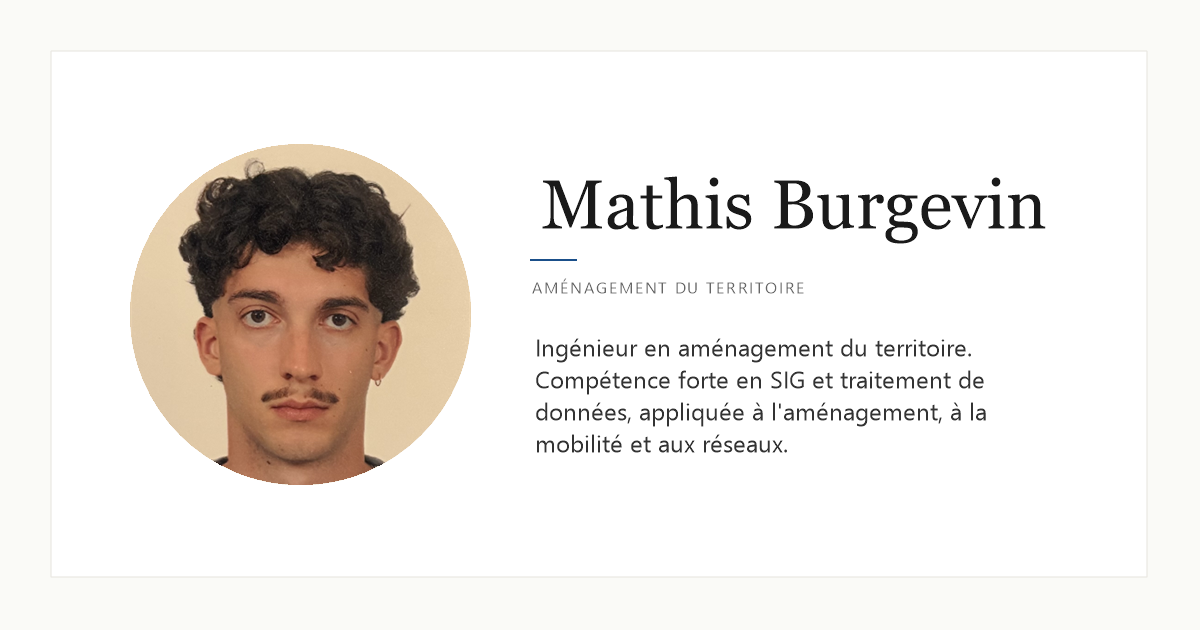
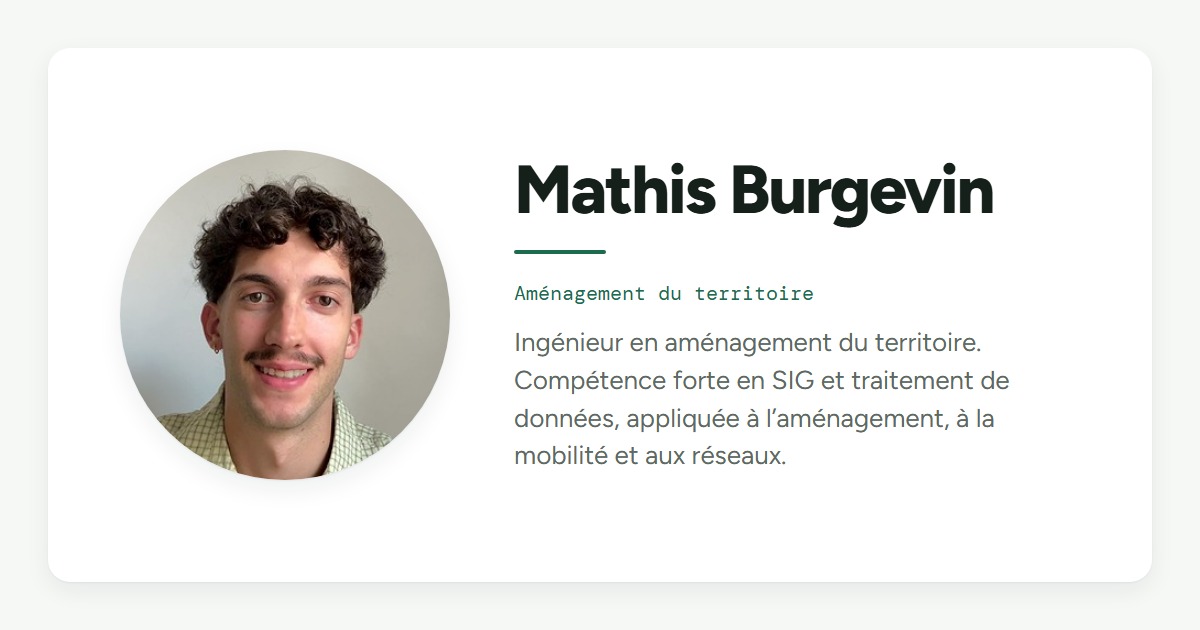
Revue du 08/10 : sigles expliqués, outil de visite de site, cartes par pays, bannière refaite
- Sigles développés à leur première apparition (SIG, APUR, SDIE, OPC, BDTOPO, algorithmes)
- « Outil de visite de site » partout, consignes rédigées pour une IA (pas des scripts)
- OPAH-RU retiré de l'accueil
- L'Ornithèque : cartes par pays expliquées, légende de la vidéo raccourcie, crédit des photos
- Recherche : 44 % en tête de page
- og-cover.png refaite aux polices et couleurs du site

diff --git a/experiences.html b/experiences.html
@@ -58,7 +58,7 @@
         <ol class="sommaire__l">
           <li><a class="tuile" href="#coordination"><span class="tuile__img tuile__img--dessin" aria-hidden="true"><svg viewBox="0 0 120 90"><path d="M60 44L22 20" fill="none" stroke="currentColor" stroke-width="2.5" opacity=".45"/><path d="M60 44L98 20" fill="none" stroke="currentColor" stroke-width="2.5" opacity=".45"/><path d="M60 44L16 60" fill="none" stroke="currentColor" stroke-width="2.5" opacity=".45"/><path d="M60 44L104 60" fill="none" stroke="currentColor" stroke-width="2.5" opacity=".45"/><path d="M60 44L60 80" fill="none" stroke="currentColor" stroke-width="2.5" opacity=".45"/><circle cx="22" cy="20" r="7" fill="currentColor" opacity="0.5"/><circle cx="98" cy="20" r="7" fill="currentColor" opacity="0.7"/><circle cx="16" cy="60" r="7" fill="currentColor" opacity="0.7"/><circle cx="104" cy="60" r="7" fill="currentColor" opacity="0.5"/><circle cx="60" cy="80" r="7" fill="currentColor" opacity="0.6"/><circle cx="60" cy="44" r="12" fill="currentColor"/></svg></span><span class="tuile__t"><span class="tuile__n">1</span>Coordination</span></a></li>
           <li><a class="tuile" href="#phasage"><span class="tuile__img tuile__img--dessin" aria-hidden="true"><svg viewBox="0 0 120 90"><rect x="8" y="14" width="32" height="44" rx="3" fill="none" stroke="currentColor" stroke-width="2" opacity=".45"/><rect x="13" y="19" width="14" height="16" rx="1.5" fill="currentColor"/><circle cx="24" cy="74" r="4" fill="currentColor" opacity="1"/><rect x="44" y="14" width="32" height="44" rx="3" fill="none" stroke="currentColor" stroke-width="2" opacity=".45"/><rect x="49" y="19" width="14" height="16" rx="1.5" fill="currentColor" opacity=".35"/><rect x="57" y="32" width="14" height="20" rx="1.5" fill="currentColor"/><circle cx="60" cy="74" r="4" fill="currentColor" opacity="0.7"/><rect x="80" y="14" width="32" height="44" rx="3" fill="none" stroke="currentColor" stroke-width="2" opacity=".45"/><rect x="93" y="32" width="14" height="20" rx="1.5" fill="currentColor" opacity=".35"/><rect x="85" y="38" width="10" height="14" rx="1.5" fill="currentColor"/><rect x="98" y="19" width="9" height="9" rx="1.5" fill="currentColor"/><circle cx="96" cy="74" r="4" fill="currentColor" opacity="0.45"/><path d="M24 74H96" fill="none" stroke="currentColor" stroke-width="2" opacity=".35"/></svg></span><span class="tuile__t"><span class="tuile__n">2</span>Phasage de chantiers</span></a></li>
-          <li><a class="tuile" href="#visites"><span class="tuile__img tuile__img--dessin" aria-hidden="true"><svg viewBox="0 0 120 90"><rect x="12" y="12" width="32" height="66" rx="6" fill="none" stroke="currentColor" stroke-width="3"/><rect x="18" y="20" width="20" height="14" rx="2" fill="currentColor" opacity=".5"/><rect x="18" y="40" width="20" height="4" rx="1" fill="currentColor"/><rect x="18" y="49" width="14" height="4" rx="1" fill="currentColor" opacity=".6"/><rect x="18" y="58" width="17" height="4" rx="1" fill="currentColor" opacity=".6"/><path d="M52 45H70M64 40L70 45L64 50" fill="none" stroke="currentColor" stroke-width="3" stroke-linecap="round" stroke-linejoin="round"/><rect x="78" y="14" width="30" height="62" rx="3" fill="none" stroke="currentColor" stroke-width="3"/><rect x="84" y="21" width="18" height="12" rx="1.5" fill="currentColor" opacity=".5"/><rect x="84" y="39" width="18" height="3.5" rx="1" fill="currentColor"/><rect x="84" y="47" width="14" height="3.5" rx="1" fill="currentColor" opacity=".6"/><rect x="84" y="55" width="18" height="3.5" rx="1" fill="currentColor" opacity=".6"/><rect x="84" y="63" width="11" height="3.5" rx="1" fill="currentColor" opacity=".6"/></svg></span><span class="tuile__t"><span class="tuile__n">3</span>Outils de suivi de chantier</span></a></li>
+          <li><a class="tuile" href="#visites"><span class="tuile__img tuile__img--dessin" aria-hidden="true"><svg viewBox="0 0 120 90"><rect x="12" y="12" width="32" height="66" rx="6" fill="none" stroke="currentColor" stroke-width="3"/><rect x="18" y="20" width="20" height="14" rx="2" fill="currentColor" opacity=".5"/><rect x="18" y="40" width="20" height="4" rx="1" fill="currentColor"/><rect x="18" y="49" width="14" height="4" rx="1" fill="currentColor" opacity=".6"/><rect x="18" y="58" width="17" height="4" rx="1" fill="currentColor" opacity=".6"/><path d="M52 45H70M64 40L70 45L64 50" fill="none" stroke="currentColor" stroke-width="3" stroke-linecap="round" stroke-linejoin="round"/><rect x="78" y="14" width="30" height="62" rx="3" fill="none" stroke="currentColor" stroke-width="3"/><rect x="84" y="21" width="18" height="12" rx="1.5" fill="currentColor" opacity=".5"/><rect x="84" y="39" width="18" height="3.5" rx="1" fill="currentColor"/><rect x="84" y="47" width="14" height="3.5" rx="1" fill="currentColor" opacity=".6"/><rect x="84" y="55" width="18" height="3.5" rx="1" fill="currentColor" opacity=".6"/><rect x="84" y="63" width="11" height="3.5" rx="1" fill="currentColor" opacity=".6"/></svg></span><span class="tuile__t"><span class="tuile__n">3</span>Outil de visite de site</span></a></li>
           <li><a class="tuile" href="#reperage"><span class="tuile__img tuile__img--dessin" aria-hidden="true"><svg viewBox="0 0 120 90"><rect x="18" y="40" width="20" height="16" rx="2" fill="currentColor" opacity=".3"/><rect x="62" y="14" width="18" height="14" rx="2" fill="currentColor" opacity=".3"/><rect x="84" y="36" width="22" height="18" rx="2" fill="currentColor" opacity=".3"/><path d="M8 74C34 66 42 36 66 36S96 22 112 12" fill="none" stroke="currentColor" stroke-width="4" stroke-linecap="round"/><circle cx="30" cy="64" r="5" fill="#fff" stroke="currentColor" stroke-width="3"/><circle cx="66" cy="36" r="5" fill="#fff" stroke="currentColor" stroke-width="3"/><circle cx="100" cy="18" r="5" fill="#fff" stroke="currentColor" stroke-width="3"/></svg></span><span class="tuile__t"><span class="tuile__n">4</span>Carte d’un tracé de transport</span></a></li>
           <li><a class="tuile" href="#pru"><span class="tuile__img tuile__img--dessin" aria-hidden="true"><svg viewBox="0 0 120 90"><rect x="10" y="10" width="42" height="30" rx="2" fill="currentColor" opacity=".5"/><rect x="64" y="10" width="46" height="30" rx="2" fill="currentColor" opacity=".3"/><rect x="10" y="52" width="42" height="28" rx="2" fill="currentColor" opacity=".3"/><rect x="64" y="52" width="46" height="28" rx="2" fill="currentColor" opacity=".5"/><path d="M6 46H114" fill="none" stroke="currentColor" stroke-width="3" stroke-dasharray="7 5"/><circle cx="31" cy="25" r="6" fill="#fff" stroke="currentColor" stroke-width="3"/><circle cx="87" cy="66" r="6" fill="#fff" stroke="currentColor" stroke-width="3"/><rect x="80" y="18" width="14" height="14" rx="2" fill="currentColor"/></svg></span><span class="tuile__t"><span class="tuile__n">5</span>Carte de renouvellement urbain</span></a></li>
         </ol>
@@ -78,7 +78,7 @@
       <p class="stage__n">Stage de fin d’études · mars à août 2026</p>
       <h2 class="stage__t">Egis, Montreuil</h2>
     </div>
-    <p class="stage__sub">Stage en assistance à maîtrise d’ouvrage (OPCU, OPCIC, ICIC)&nbsp;: suivre et coordonner les chantiers de deux quartiers en renouvellement urbain.</p>
+    <p class="stage__sub">Stage en assistance à maîtrise d’ouvrage, en ordonnancement, pilotage et coordination (OPCU, OPCIC, ICIC)&nbsp;: suivre et coordonner les chantiers de deux quartiers en renouvellement urbain.</p>
   </section>
 
   <section class="item reveal" id="coordination">
@@ -137,7 +137,7 @@
       </div>
       <div>
         <p class="releve__k">Mon rôle</p>
-        <p class="releve__v">Production des plans de phasage sur mes deux secteurs, et pour des collègues sur les leurs. Appui SIG sur cette chaîne, que je n’ai pas construite&nbsp;: j’ai aidé des collègues moins à l’aise avec le SIG à régler leurs problèmes d’affichage, de liens et de mise en page, et les écarts entre le planning et la carte.</p>
+        <p class="releve__v">Production des plans de phasage sur mes deux secteurs, et pour des collègues sur les leurs. Appui SIG (systèmes d’information géographique) sur cette chaîne, que je n’ai pas construite&nbsp;: j’ai aidé des collègues moins à l’aise avec le SIG à régler leurs problèmes d’affichage, de liens et de mise en page, et les écarts entre le planning et la carte.</p>
       </div>
       <div>
         <p class="releve__k">Outils</p>
@@ -171,7 +171,7 @@
         </div>
         <div>
           <p class="releve__k">L’analyse automatique</p>
-          <p class="releve__v">Trois scripts que j’ai écrits analysent les photos et le commentaire audio, rédigent l’observation, proposent une action et tentent d’identifier le maître d’ouvrage. C’est une première rédaction, à reprendre à la main sur les cas particuliers.</p>
+          <p class="releve__v">Trois consignes que j’ai rédigées pour une IA lui font analyser les photos et le commentaire audio, rédiger l’observation, proposer une action et tenter d’identifier le maître d’ouvrage. C’est une première rédaction, à reprendre à la main sur les cas particuliers.</p>
         </div>
       </div>
     </div>
@@ -278,7 +278,7 @@
       <p class="stage__n">Stage de 4e année · avril à août 2025</p>
       <h2 class="stage__t">Egis, Nantes</h2>
     </div>
-    <p class="stage__sub">Stage SIG en conseil immobilier et énergétique (SDIE)&nbsp;: concevoir l’outil qui met en cartes le diagnostic des bâtiments publics d’une collectivité.</p>
+    <p class="stage__sub">Stage SIG en conseil immobilier et énergétique, sur les schémas directeurs immobiliers et énergétiques (SDIE)&nbsp;: concevoir l’outil qui met en cartes le diagnostic des bâtiments publics d’une collectivité.</p>
   </section>
 
   <section class="item reveal" id="outil">

diff --git a/dater-le-bati.html b/dater-le-bati.html
@@ -46,9 +46,10 @@
   <header class="hero reveal">
     <h1 class="title">Compléter une base de données du bâti par apprentissage automatique</h1>
     <p class="page-sub">Projet de recherche et innovation · Polytech Tours · 2025</p>
-    <p class="lead">Dans la base des bâtiments de Paris publiée par l’APUR, un bâtiment sur trois n’a pas de date de construction. D’où la question de ce projet de recherche&nbsp;: les bâtiments bien renseignés peuvent-ils servir à deviner ce qui manque aux autres&nbsp;? La date n’était qu’un cas d’essai, le vrai sujet était la méthode.</p>
+    <p class="lead">Dans la base des bâtiments de Paris publiée par l’APUR (Atelier parisien d’urbanisme), un bâtiment sur trois n’a pas de date de construction. D’où la question de ce projet de recherche&nbsp;: les bâtiments bien renseignés peuvent-ils servir à deviner ce qui manque aux autres&nbsp;? La date n’était qu’un cas d’essai, le vrai sujet était la méthode.</p>
     <div class="facts">
       <span class="fact"><b>128 176</b><span>bâtiments dans la base</span></span>
+      <span class="fact"><b>44&nbsp;%</b><span>classés dans la bonne période</span></span>
     </div>
   </header>
 
@@ -62,7 +63,7 @@
       </div>
       <div>
         <p class="releve__k">Pourquoi la date de construction</p>
-        <p class="releve__v">Parce qu’elle ne se calcule pas. Une surface, une hauteur, une pente de toit se mesurent dans un SIG&nbsp;; une date, non&nbsp;: soit elle figure dans la base, soit elle manque. Et parce qu’elle est utile. L’époque de construction renseigne les matériaux, le vitrage et l’isolation, donc les consommations de chauffage, donc les bâtiments à rénover en premier.</p>
+        <p class="releve__v">Parce qu’elle ne se calcule pas. Une surface, une hauteur, une pente de toit se mesurent dans un SIG (système d’information géographique)&nbsp;; une date, non&nbsp;: soit elle figure dans la base, soit elle manque. Et parce qu’elle est utile. L’époque de construction renseigne les matériaux, le vitrage et l’isolation, donc les consommations de chauffage, donc les bâtiments à rénover en premier.</p>
       </div>
     </div>
 
@@ -99,7 +100,7 @@
       </div>
       <div>
         <p class="releve__k">L’apprentissage, puis la note</p>
-        <p class="releve__v">Les bâtiments sont séparés en deux groupes. Le modèle apprend sur le premier&nbsp;; sur le second, il ne voit que les formes et doit annoncer une date, qu’on compare ensuite à la vraie, qu’il n’a jamais eue sous les yeux. Trois algorithmes sont mis en concurrence de cette façon, l’arbre de décision, la forêt aléatoire et le gradient boosting, sur neuf découpages différents.</p>
+        <p class="releve__v">Les bâtiments sont séparés en deux groupes. Le modèle apprend sur le premier&nbsp;; sur le second, il ne voit que les formes et doit annoncer une date, qu’on compare ensuite à la vraie, qu’il n’a jamais eue sous les yeux. Trois algorithmes sont mis en concurrence de cette façon, l’arbre de décision, la forêt aléatoire et le gradient boosting (le premier pose une suite de questions sur la forme du bâtiment, les deux autres combinent des centaines d’arbres de ce type), sur neuf découpages différents.</p>
       </div>
     </div>
 
@@ -140,7 +141,7 @@
       </div>
       <div>
         <p class="releve__k">Ce qui ne se transpose pas</p>
-        <p class="releve__v">Le modèle a appris sur les variables de l’APUR. La BDTOPO, qui couvre le reste du territoire, ne décrit pas les bâtiments avec les mêmes&nbsp;: pour l’utiliser ailleurs, il faudrait se limiter aux variables communes aux deux bases, et vérifier que le résultat tient encore.</p>
+        <p class="releve__v">Le modèle a appris sur les variables de l’APUR. La BDTOPO (la base topographique nationale de l’IGN), qui couvre le reste du territoire, ne décrit pas les bâtiments avec les mêmes&nbsp;: pour l’utiliser ailleurs, il faudrait se limiter aux variables communes aux deux bases, et vérifier que le résultat tient encore.</p>
       </div>
       <div>
         <p class="releve__k">Ce que je ferais autrement</p>

diff --git a/index.html b/index.html
@@ -85,7 +85,7 @@
         <a class="carrousel__vue carrousel__vue--phone" href="experiences.html#visites">
           <figure>
             <img width="232" height="456" loading="lazy" src="projet-visite-formulaire.webp" alt="Formulaire de visite de site sur téléphone, avec ses champs photo, audio et l’analyse automatique">
-            <figcaption><span class="ligne"><span class="t">Outils de suivi de chantier</span><span class="m">Egis Montreuil, 2026</span><span class="v">Voir le détail <i>→</i></span></span><span class="d">Les observations lors des visites de site sont faites sur place en photos et en audio puis rédigées automatiquement. Avec un suivi d’une visite à l’autre, un planning de synthèse alimenté depuis la base du projet et des rapports générés en quelques clics.</span></figcaption>
+            <figcaption><span class="ligne"><span class="t">Outil de visite de site</span><span class="m">Egis Montreuil, 2026</span><span class="v">Voir le détail <i>→</i></span></span><span class="d">Les observations lors des visites de site sont faites sur place en photos et en audio puis rédigées automatiquement. Avec un suivi d’une visite à l’autre, un planning de synthèse alimenté depuis la base du projet et des rapports générés en quelques clics.</span></figcaption>
           </figure>
         </a>
         <a class="carrousel__vue" href="experiences.html#pru">
@@ -106,7 +106,7 @@
         <div class="carrousel__points">
           <button class="carrousel__point is-on" type="button" aria-label="Aller à la vue 1, Phasage de chantiers"></button>
           <button class="carrousel__point" type="button" aria-label="Aller à la vue 2, Outil cartographique automatisé"></button>
-          <button class="carrousel__point" type="button" aria-label="Aller à la vue 3, Outils de suivi de chantier"></button>
+          <button class="carrousel__point" type="button" aria-label="Aller à la vue 3, Outil de visite de site"></button>
           <button class="carrousel__point" type="button" aria-label="Aller à la vue 4, Carte de renouvellement urbain"></button>
           <button class="carrousel__point" type="button" aria-label="Aller à la vue 5, Carte d’un tracé de transport"></button>
         </div>
@@ -139,7 +139,7 @@
       <a href="dater-le-bati.html">
         <span class="index__body">
           <span class="index__t">Compléter une base de données du bâti par apprentissage automatique</span>
-          <span class="index__d">Projet de recherche&nbsp;: une base du bâti peut-elle remplir ses propres cases vides&nbsp;? Cas d’étude sur la date de construction des bâtiments parisiens, données ouvertes de l’APUR, marge d’erreur mesurée</span>
+          <span class="index__d">Projet de recherche&nbsp;: une base du bâti peut-elle remplir ses propres cases vides&nbsp;? Cas d’étude sur la date de construction des bâtiments parisiens, données ouvertes de l’APUR (Atelier parisien d’urbanisme), marge d’erreur mesurée</span>
         </span>
         <span class="index__go">Lire le projet <i>→</i></span>
       </a>
@@ -158,7 +158,7 @@
         <p>Plannings de synthèse, MS Project, Excel, Power Query, macros, phasage, comptes rendus, comités techniques, visites de site</p>
       </div>
       <div class="skill">
-        <p class="skill__k"><i></i>SIG et données</p>
+        <p class="skill__k"><i></i>SIG (systèmes d’information géographique) et données</p>
         <p>QGIS, PyQGIS, WebSIG, ArcGIS Online, Experience Builder, Survey123 (formulaires de terrain), SQL, PostgreSQL, PostGIS, production cartographique, analyses spatiales, structuration de données</p>
       </div>
       <div class="skill">
@@ -167,7 +167,7 @@
       </div>
       <div class="skill">
         <p class="skill__k"><i></i>Énergie et bâtiment</p>
-        <p>OPAH-RU, schéma directeur immobilier et énergétique, bilan carbone (méthode ADEME)</p>
+        <p>Schéma directeur immobilier et énergétique, bilan carbone (méthode ADEME)</p>
       </div>
       <div class="skill">
         <p class="skill__k"><i></i>Langues et formation</p>

diff --git a/ornitheque.html b/ornitheque.html
@@ -121,6 +121,10 @@
         <p class="releve__k">Refaire les cartes de répartition</p>
         <p class="releve__v">Les cartes de répartition venaient d’abord de Cornell, le laboratoire américain qui gère eBird. En lisant leurs conditions d’utilisation, j’ai vu qu’on ne peut pas les publier sur un site sans accord écrit. Je les ai donc fait reconstruire, avec l’assistant IA, à partir des observations eBird brutes que Cornell publie en licence libre sur GBIF, la base mondiale des données sur le vivant&nbsp;: 1,48&nbsp;milliard d’observations depuis 2015. Pour cartographier les oiseaux et non les observateurs, chaque case de la carte donne la part de l’espèce parmi toutes les observations de cette case. Le résultat&nbsp;: 10&nbsp;896 cartes, dont 10&nbsp;660 animées sur douze mois et 236 en simple présence pour des espèces absentes des données eBird.</p>
       </div>
+      <div>
+        <p class="releve__k">Les cartes par pays</p>
+        <p class="releve__v">Pour 48 pays, la fiche de chaque espèce dit aussi où et quand la chercher, région par région (le département en France) et mois par mois. Le chiffre affiché est la part des listes d’observation de la région qui la mentionnent, tirée des fréquences qu’eBird publie pour chaque région.</p>
+      </div>
     </div>
 
     <div class="plates--pair plates--egal" style="--cols:78fr 108fr">
@@ -130,7 +134,7 @@
       </figure>
       <figure class="plate">
         <video width="1000" height="928" src="projet-ornitheque-ou-quand.mp4" poster="projet-ornitheque-ou-quand.webp" autoplay muted loop playsinline preload="metadata" aria-label="Démonstration : la carte et le calendrier de la Huppe fasciée, un département puis un mois choisis"></video>
-        <figcaption>«&nbsp;Où et quand la trouver&nbsp;», dans la fiche de la Huppe fasciée&nbsp;: la carte par département et le calendrier de l’année se répondent. Données eBird réelles.</figcaption>
+        <figcaption>«&nbsp;Où et quand la trouver&nbsp;», sur la fiche de la Huppe fasciée. Données eBird réelles.</figcaption>
       </figure>
     </div>
 
@@ -170,6 +174,7 @@
           <dt>Observations</dt><dd>eBird, base de données en ligne sur la répartition et l’abondance des oiseaux, Cornell Lab of Ornithology, Ithaca, New York (<a href="https://ebird.org" target="_blank" rel="noopener">ebird.org</a>)</dd>
           <dt>Cartes</dt><dd>observations eBird publiées sur <a href="https://www.gbif.org" target="_blank" rel="noopener">GBIF</a>, licence CC BY 4.0, téléchargements <a href="https://doi.org/10.15468/dl.c7y4kg" target="_blank" rel="noopener">10.15468/dl.c7y4kg</a> et <a href="https://doi.org/10.15468/dl.rb9sut" target="_blank" rel="noopener">10.15468/dl.rb9sut</a></dd>
           <dt>Chants</dt><dd><a href="https://xeno-canto.org" target="_blank" rel="noopener">xeno-canto</a></dd>
+          <dt>Photos</dt><dd><a href="https://www.inaturalist.org" target="_blank" rel="noopener">iNaturalist</a> et <a href="https://commons.wikimedia.org" target="_blank" rel="noopener">Wikimedia Commons</a>, sous licences Creative Commons</dd>
           <dt>Traits des espèces</dt><dd>AVONET (Tobias et al., 2022)</dd>
           <dt>Milieux de vie</dt><dd>BIRDBASE</dd>
         </dl>

diff --git a/style.css b/style.css
@@ -326,9 +326,11 @@ img{display:block;max-width:100%;height:auto;}
 .skill{background:var(--raised);border-radius:var(--r-lg);padding:18px 20px;}
 .skill__k{
   font-size:15px;font-weight:700;letter-spacing:-.006em;margin:0 0 4px;
-  display:flex;align-items:center;gap:9px;
+  display:flex;align-items:flex-start;gap:9px;
 }
-.skill__k i{width:7px;height:7px;border-radius:var(--pill);background:var(--accent);display:block;flex:0 0 7px;}
+/* Pastille calée sur la première ligne : un intitulé sur deux lignes (SIG
+   développé, 08/10/2026) la faisait descendre entre les deux. */
+.skill__k i{width:7px;height:7px;border-radius:var(--pill);background:var(--accent);display:block;flex:0 0 7px;margin-top:8px;}
 .skill p{margin:0;font-size:15px;line-height:1.55;color:var(--ink-2);}
 
 /* ==========================================================================
